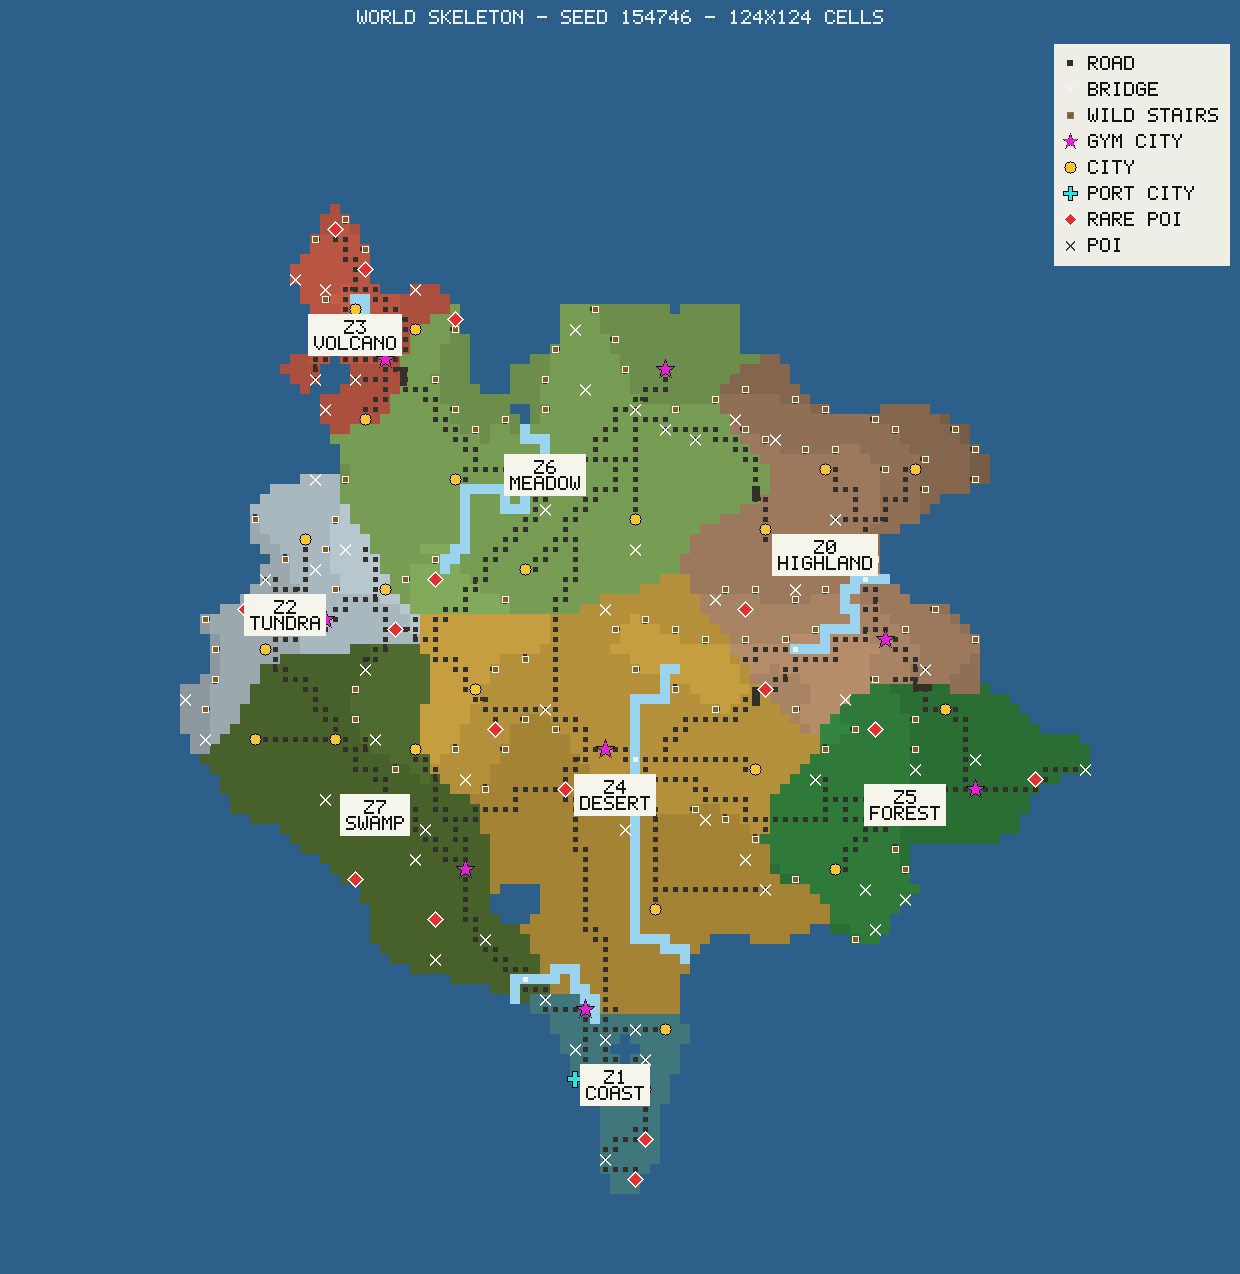
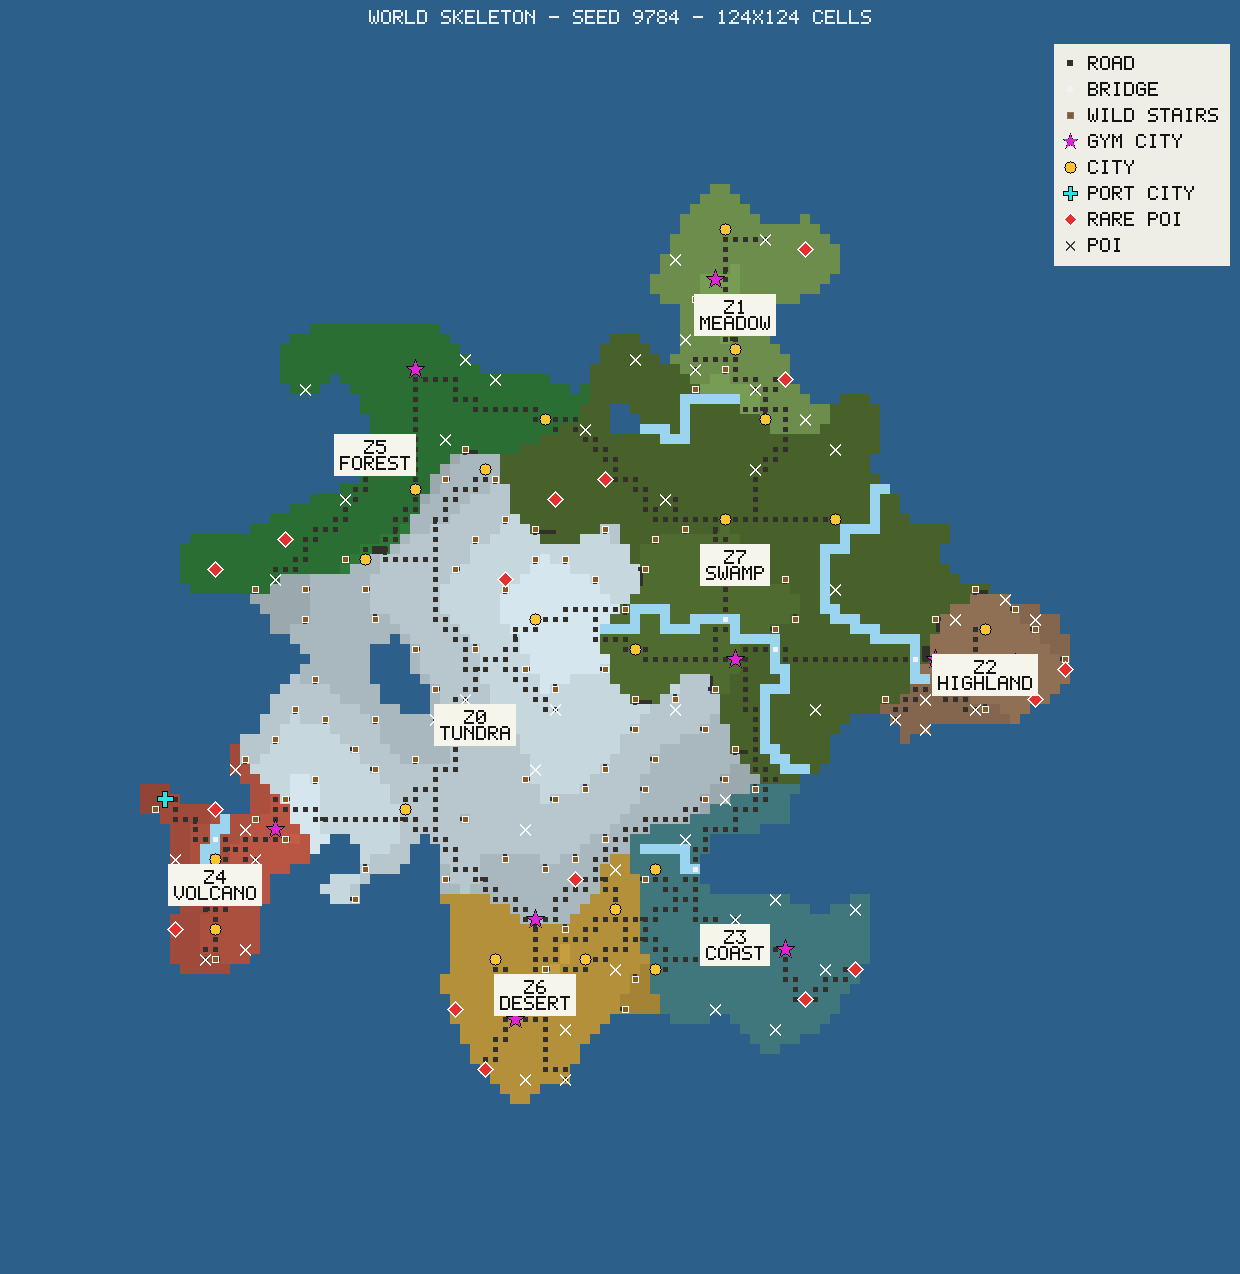
Refactor voxel shapes to use hexaPlane representation for foliage and add HexaPlaneVoxelShape implementation

diff --git a/srcs/structures/voxel/spk_hexa_plane_voxel_shape.cpp b/srcs/structures/voxel/spk_hexa_plane_voxel_shape.cpp
@@ -1,0 +1,48 @@
+#include "structures/voxel/spk_hexa_plane_voxel_shape.hpp"
+
+#include <array>
+#include <utility>
+
+namespace spk
+{
+	namespace
+	{
+		[[nodiscard]] spk::VoxelShapePolygon reversed(const spk::VoxelShapePolygon &p_polygon)
+		{
+			spk::VoxelShapePolygon::Builder builder;
+			builder.reserve(p_polygon.size());
+			for (std::size_t index = p_polygon.size(); index > 0; --index)
+				builder.addVertex(p_polygon[index - 1]);
+			return std::move(builder).bake();
+		}
+	}
+
+	HexaPlaneVoxelShape::HexaPlaneVoxelShape(TextureSlots p_textures, const spk::Vector2Int &p_atlasSize) :
+		spk::VoxelShape(std::move(p_textures), p_atlasSize)
+	{
+	}
+
+	HexaPlaneVoxelShape::HexaPlaneVoxelShape(const spk::AtlasCell &p_uniformTexture, const spk::Vector2Int &p_atlasSize) :
+		HexaPlaneVoxelShape(TextureSlots{{"plane", p_uniformTexture}}, p_atlasSize)
+	{
+	}
+
+	void HexaPlaneVoxelShape::_constructRenderFaces()
+	{
+		for (const float offset : std::array{0.2f, 0.8f})
+		{
+			const spk::VoxelShapePolygon xy = createVerticalRectangle(
+				"plane", {0, 0, offset}, {1, 0, offset}, {1, 1, offset}, {0, 1, offset});
+			const spk::VoxelShapePolygon xz = createRectangle(
+				"plane", {0, offset, 0}, {0, offset, 1}, {1, offset, 1}, {1, offset, 0});
+			const spk::VoxelShapePolygon yz = createVerticalRectangle(
+				"plane", {offset, 0, 1}, {offset, 0, 0}, {offset, 1, 0}, {offset, 1, 1});
+
+			for (const spk::VoxelShapePolygon *plane : {&xy, &xz, &yz})
+			{
+				mutableRenderFaces().innerFaces.push_back(*plane);
+				mutableRenderFaces().innerFaces.push_back(reversed(*plane));
+			}
+		}
+	}
+}

diff --git a/tests/TUs/srcs/structures/voxel/voxel_shape_library_test.cpp b/tests/TUs/srcs/structures/voxel/voxel_shape_library_test.cpp
@@ -6,6 +6,7 @@
 #include "structures/voxel/spk_cross_plane_voxel_shape.hpp"
 #include "structures/voxel/spk_cross_voxel_shape.hpp"
 #include "structures/voxel/spk_cube_voxel_shape.hpp"
+#include "structures/voxel/spk_hexa_plane_voxel_shape.hpp"
 #include "structures/voxel/spk_slab_voxel_shape.hpp"
 #include "structures/voxel/spk_slope_voxel_shape.hpp"
 #include "structures/voxel/spk_stair_voxel_shape.hpp"
@@ -252,4 +253,35 @@ TEST(VoxelShapeLibrary, CrossUsesTwoCenteredAxisAlignedPlanes)
 	{
 		EXPECT_FLOAT_EQ(vertex.position.x, 0.5f);
 	}
+}
+
+TEST(VoxelShapeLibrary, hexaPlaneUsesTwoPlanesOnEachAxis)
+{
+	spk::HexaPlaneVoxelShape shape(spk::AtlasCell{0, 0});
+	shape.initialize();
+
+	const spk::VoxelShapeFaceSet &faces = shape.renderFaces();
+	EXPECT_EQ(faces.outerFaceCount(), 0u);
+	ASSERT_EQ(faces.innerFaces.size(), 12u);
+
+	std::array<int, 2> xPlanes{};
+	std::array<int, 2> yPlanes{};
+	std::array<int, 2> zPlanes{};
+	for (std::size_t index = 0; index < faces.innerFaces.size(); index += 2)
+	{
+		const auto &polygon = faces.innerFaces[index].polygons().front();
+		const auto countPlane = [&](auto member, std::array<int, 2> &counts) {
+			const float coordinate = polygon[0].position.*member;
+			for (const auto &vertex : polygon)
+				if (vertex.position.*member != coordinate)
+					return false;
+			++counts[coordinate < 0.5f ? 0 : 1];
+			return true;
+		};
+		EXPECT_TRUE(countPlane(&spk::Vector3::x, xPlanes) || countPlane(&spk::Vector3::y, yPlanes) ||
+			countPlane(&spk::Vector3::z, zPlanes));
+	}
+	EXPECT_EQ(xPlanes, (std::array<int, 2>{1, 1}));
+	EXPECT_EQ(yPlanes, (std::array<int, 2>{1, 1}));
+	EXPECT_EQ(zPlanes, (std::array<int, 2>{1, 1}));
 }

diff --git a/includes/structures/voxel/spk_hexa_plane_voxel_shape.hpp b/includes/structures/voxel/spk_hexa_plane_voxel_shape.hpp
@@ -1,0 +1,19 @@
+#pragma once
+
+#include "structures/voxel/spk_voxel_shape.hpp"
+
+namespace spk
+{
+	// Six double-sided, axis-aligned quads inset into the voxel cell: two parallel
+	// planes for each axis. This gives foliage volume without closing it into a cube.
+	// Texture slot is "plane".
+	class HexaPlaneVoxelShape : public spk::VoxelShape
+	{
+	protected:
+		void _constructRenderFaces() override;
+
+	public:
+		explicit HexaPlaneVoxelShape(TextureSlots p_textures, const spk::Vector2Int &p_atlasSize = DefaultAtlasSize);
+		explicit HexaPlaneVoxelShape(const spk::AtlasCell &p_uniformTexture, const spk::Vector2Int &p_atlasSize = DefaultAtlasSize);
+	};
+}

diff --git a/Playground/srcs/voxel/voxel_parser.cpp b/Playground/srcs/voxel/voxel_parser.cpp
@@ -7,6 +7,7 @@
 #include "structures/voxel/spk_cross_voxel_shape.hpp"
 #include "structures/voxel/spk_cube_voxel_shape.hpp"
 #include "structures/voxel/spk_cuboid_voxel_shape.hpp"
+#include "structures/voxel/spk_hexa_plane_voxel_shape.hpp"
 #include "structures/voxel/spk_slab_voxel_shape.hpp"
 #include "structures/voxel/spk_slope_voxel_shape.hpp"
 #include "structures/voxel/spk_stair_voxel_shape.hpp"
@@ -220,11 +221,17 @@ namespace
 			pg::JsonReader textures = p_reader.child("textures");
 			return {std::make_unique<spk::CrossVoxelShape>(readNamedTextures(textures, {"plane"})), {}};
 		}
+		if (type == "hexaPlane")
+		{
+			p_reader.forbidUnknown({"type", "textures"});
+			pg::JsonReader textures = p_reader.child("textures");
+			return {std::make_unique<spk::HexaPlaneVoxelShape>(readNamedTextures(textures, {"plane"})), {}};
+		}
 
 		throw pg::JsonError(
 			p_reader.file(),
 			p_reader.pathFor("type"),
-			"unknown voxel shape type '" + type + "' (known types: cube, cuboid, slab, slope, stair, fluid, crossPlane, cross)");
+			"unknown voxel shape type '" + type + "' (known types: cube, cuboid, slab, slope, stair, fluid, crossPlane, cross, hexaPlane)");
 	}
 }
 